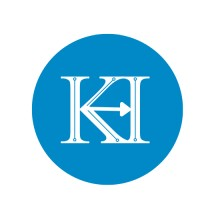
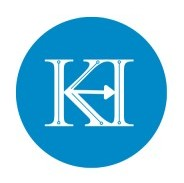
feat: updated experience data and krutrim's image

Changed region(s): [[0.0815, 0.082, 0.9239, 0.929]]

diff --git a/src/Pages/Experience.jsx b/src/Pages/Experience.jsx
@@ -12,7 +12,7 @@ const EXPERIENCES = [
             "Contributing across frontend, backend, APIs, and AI-powered workflows in a fast-paced startup environment.",
             "Focused on building impactful user experiences, scalable systems, and continuously improving product quality.",
         ],
-        skills: ["AI", "React", "Node.js", "MongoDB", "JavaScript", "Product Development"],
+        skills: ["React Native", "Supabase", "Fastapi", "Python", "Expo"],
         logo: "/images/Experience/Shikhram.png",
     },
     {
@@ -24,13 +24,14 @@ const EXPERIENCES = [
                 role: "Software Developer Intern",
                 company_label: "Krutrim Insights",
                 badge: "New Role",
-                duration: "March 2026 - Present",
+                duration: "March 2026 - May 2026",
                 location: "Remote",
                 description: [
-                    "Selected for a project-based Software Developer Internship based on performance as Campus Ambassador.",
-                    "Contributing to development initiatives and gaining hands-on engineering experience within the organization.",
+                    "Built and deployed a full-stack website using React.js, Tailwind CSS, and AWS.",
+                    "Developed interconnected Admin, Mentor, and Student portal systems with scalable backend workflows.",
+                    "Worked with AWS Lambda, API Gateway, S3, and SES while solving complex integration and debugging challenges.",
                 ],
-                skills: ["Software Development", "Problem Solving", "Collaboration"],
+                skills: ["React.js", "Tailwind CSS", "AWS", "API Development", "Problem Solving", "System Design"],
                 isPromotion: true,
             },
             {
